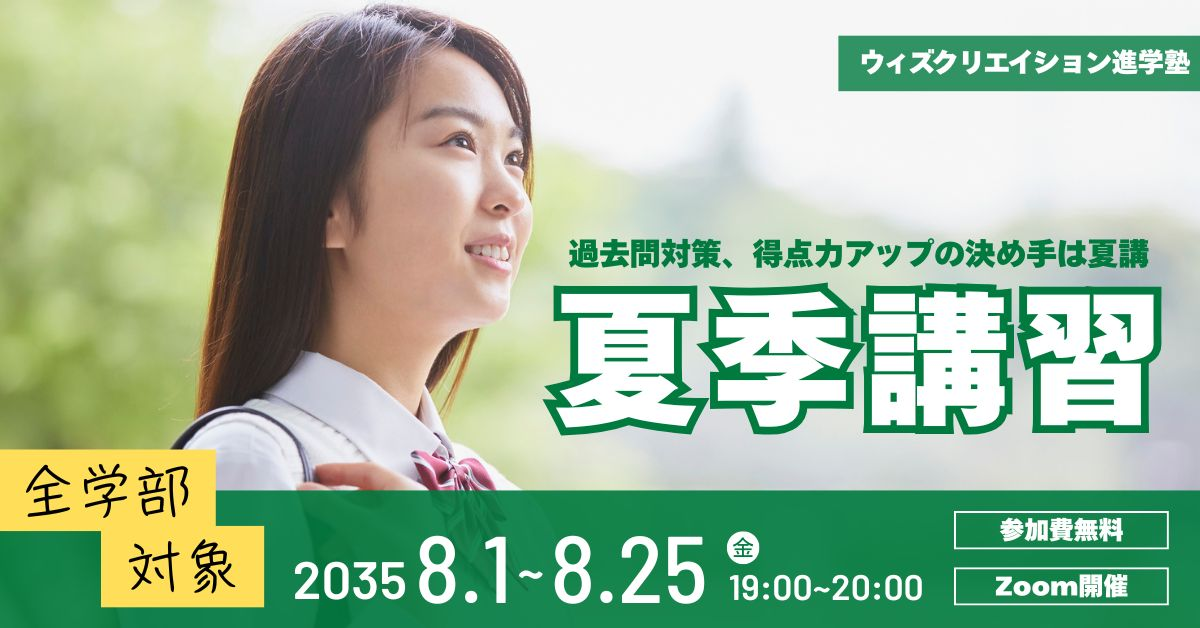
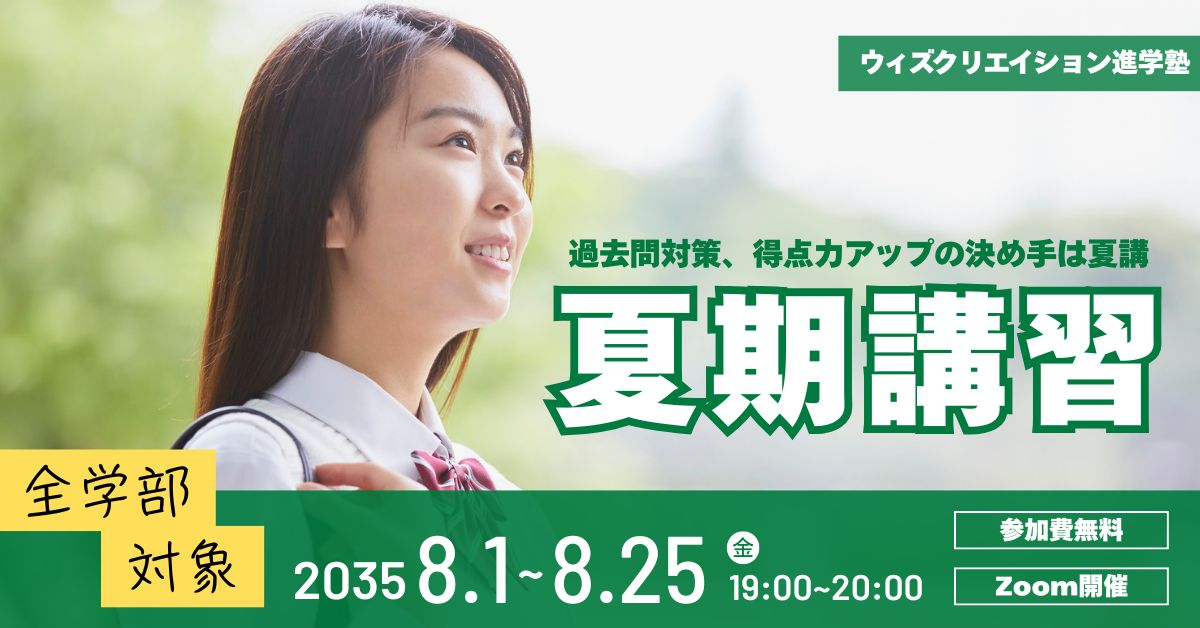
no message

Changed region(s): [[0.5858, 0.4538, 0.74, 0.6959]]

diff --git a/docs/index.html b/docs/index.html
@@ -1,4 +1,4 @@
-<!DOCTYPE html><html lang="ja"><head><meta charSet="utf-8" data-next-head=""/><meta name="viewport" content="width=device-width" data-next-head=""/><title data-next-head="">ポートフォリオ | MAYU NAKAMURA</title><meta name="description" content="MAYU NAKAMURAのポートフォリオサイト" data-next-head=""/><meta property="og:title" content="ポートフォリオ | MAYU NAKAMURA" data-next-head=""/><link rel="preload" href="/portfolio/_next/static/chunks/7ba3b559599ca548.css" as="style"/><link rel="preload" href="/portfolio/_next/static/chunks/ebd6448a097b1509.css" as="style"/><link rel="stylesheet" href="/portfolio/_next/static/chunks/7ba3b559599ca548.css" data-n-g=""/><link rel="stylesheet" href="/portfolio/_next/static/chunks/ebd6448a097b1509.css" data-n-p=""/><noscript data-n-css=""></noscript><script src="/portfolio/_next/static/chunks/9ccd0b20f5c049f9.js" defer=""></script><script src="/portfolio/_next/static/chunks/50bbf46cee1b9c29.js" defer=""></script><script src="/portfolio/_next/static/chunks/turbopack-b5976cc67f508c5a.js" defer=""></script><script src="/portfolio/_next/static/chunks/aba73c37deb33c8e.js" defer=""></script><script src="/portfolio/_next/static/chunks/turbopack-87e1ef3eaf4d58f4.js" defer=""></script><script src="/portfolio/_next/static/ok2PaM1nN5fzwdXvmGa1H/_ssgManifest.js" defer=""></script><script src="/portfolio/_next/static/ok2PaM1nN5fzwdXvmGa1H/_buildManifest.js" defer=""></script></head><body><link rel="preload" as="image" href="/portfolio/image/works/design/03.jpg"/><link rel="preload" as="image" href="/portfolio/image/works/design/04.jpg"/><link rel="preload" as="image" href="/portfolio/image/works/design/05.jpg"/><link rel="preload" as="image" href="/portfolio/image/works/design/06.jpg"/><link rel="preload" as="image" href="/portfolio/image/works/design/02.jpg"/><link rel="preload" as="image" href="/portfolio/image/works/design/01.jpg"/><link rel="preload" as="image" href="/portfolio/image/works/photo/01.jpg"/><link rel="preload" as="image" href="/portfolio/image/works/photo/02.jpg"/><link rel="preload" as="image" href="/portfolio/image/works/photo/03.jpg"/><link rel="preload" as="image" href="/portfolio/image/works/photo/05.jpg"/><div id="__next"><main><section class="text-center py-20"><h1 class="text-4xl md:text-5xl font-bold tracking-tight">MAYU NAKAMURA</h1><p class="mt-2 text-lg text-gray-600">Frontend Developer</p><button class="mt-6 px-6 py-2 bg-white shadow-md rounded-xl border border-gray-200 hover:shadow-lg transition cursor-pointer">View Works</button></section><section class="max-w-6xl mx-auto px-6 py-20"><div class="relative md:flex items-center gap-10 bg-gray-50 rounded-2xl shadow-sm border border-gray-600 max-w-6xl mx-auto px-6 py-20"><div class="flex-1 relative z-10"><h2 class="text-3xl font-extrabold mb-6 text-gray-800 flex items-center gap-2"><span class="inline-block w-2 h-6 bg-gray-400 rounded-full mr-2"></span>About</h2><p class="text-gray-700 leading-relaxed text-base md:text-lg mb-6"><span class="text-gray-500">2017年 美術系大学を卒業し、2年間Webデザインを担当していました。現在はフロントエンド開発を中心に担当しています。<br/>見た目だけでなく、ユーザビリティにこだわった実装を得意とし、Lighthouseを活用したSEO対策や、アクセシビリティに配慮したコーディングを心がけています。<br/>今後はデザイン面からもアプローチするため、UI/UXデザインを深く学び、スキルアップに努めています。</span></p><h3 class="text-2xl font-semibold mt-10">Skills</h3><div class="flex flex-wrap gap-3 mt-4"><span class="px-4 py-1 bg-gray-100 text-gray-700 border border-gray-400 rounded-full text-sm font-semibold shadow">HTML</span><span class="px-4 py-1 bg-gray-100 text-gray-700 border border-gray-400 rounded-full text-sm font-semibold shadow">CSS</span><span class="px-4 py-1 bg-gray-100 text-gray-700 border border-gray-400 rounded-full text-sm font-semibold shadow">JS</span><span class="px-4 py-1 bg-gray-100 text-gray-700 border border-gray-400 rounded-full text-sm font-semibold shadow">TS</span><span class="px-4 py-1 bg-gray-100 text-gray-700 border border-gray-400 rounded-full text-sm font-semibold shadow">React</span><span class="px-4 py-1 bg-gray-100 text-gray-700 border border-gray-400 rounded-full text-sm font-semibold shadow">Next.js</span><span class="px-4 py-1 bg-gray-100 text-gray-700 border border-gray-400 rounded-full text-sm font-semibold shadow">Vue.js</span><span class="px-4 py-1 bg-gray-100 text-gray-700 border border-gray-400 rounded-full text-sm font-semibold shadow">Photoshop</span><span class="px-4 py-1 bg-gray-100 text-gray-700 border border-gray-400 rounded-full text-sm font-semibold shadow">Canva</span><span class="px-4 py-1 bg-gray-100 text-gray-700 border border-gray-400 rounded-full text-sm font-semibold shadow">a11y</span><span class="px-4 py-1 bg-gray-100 text-gray-700 border border-gray-400 rounded-full text-sm font-semibold shadow">Lighthouse</span></div></div><div class="mt-12 md:mt-0 flex justify-center items-center relative z-10"><div class="w-50 h-50 rounded-full overflow-hidden shadow-lg border-4 border-white"><img alt="Profile" loading="lazy" width="200" height="200" decoding="async" data-nimg="1" class="object-cover w-full h-full" style="color:transparent" src="/portfolio/image/profile.jpg"/></div></div></div></section><section id="works" class="max-w-6xl mx-auto px-6 py-20"><h2 class="text-2xl font-semibold mb-8">Works</h2><h3 class="text-1xl font-semibold mb-4">Web</h3><div class="grid md:grid-cols-3 gap-6 mb-16"><div class="bg-gray-50 rounded-2xl p-6 border border-gray-600 shadow-sm transition undefined"><div class="h-32 rounded-xl mb-4"><a href="https://sora03pt.github.io/cosplay-recruitment/"><img alt="Project Image" loading="lazy" width="128" height="128" decoding="async" data-nimg="1" class="object-contain w-full h-full rounded-xl" style="color:transparent" src="/portfolio/image/works/01.jpg"/></a></div><h4 class="font-semibold">文章作成支援ツール</h4><p class="text-sm text-gray-600 mt-1 whitespace-pre-line">使用ツール：Vercel v0
+<!DOCTYPE html><html lang="ja"><head><meta charSet="utf-8" data-next-head=""/><meta name="viewport" content="width=device-width" data-next-head=""/><title data-next-head="">ポートフォリオ | MAYU NAKAMURA</title><meta name="description" content="MAYU NAKAMURAのポートフォリオサイト" data-next-head=""/><meta property="og:title" content="ポートフォリオ | MAYU NAKAMURA" data-next-head=""/><link rel="preload" href="/portfolio/_next/static/chunks/7ba3b559599ca548.css" as="style"/><link rel="preload" href="/portfolio/_next/static/chunks/ebd6448a097b1509.css" as="style"/><link rel="stylesheet" href="/portfolio/_next/static/chunks/7ba3b559599ca548.css" data-n-g=""/><link rel="stylesheet" href="/portfolio/_next/static/chunks/ebd6448a097b1509.css" data-n-p=""/><noscript data-n-css=""></noscript><script src="/portfolio/_next/static/chunks/9ccd0b20f5c049f9.js" defer=""></script><script src="/portfolio/_next/static/chunks/50bbf46cee1b9c29.js" defer=""></script><script src="/portfolio/_next/static/chunks/turbopack-b5976cc67f508c5a.js" defer=""></script><script src="/portfolio/_next/static/chunks/aba73c37deb33c8e.js" defer=""></script><script src="/portfolio/_next/static/chunks/turbopack-87e1ef3eaf4d58f4.js" defer=""></script><script src="/portfolio/_next/static/E28Ox2ZxlaCH8_cyhj0Ik/_ssgManifest.js" defer=""></script><script src="/portfolio/_next/static/E28Ox2ZxlaCH8_cyhj0Ik/_buildManifest.js" defer=""></script></head><body><link rel="preload" as="image" href="/portfolio/image/works/design/03.jpg"/><link rel="preload" as="image" href="/portfolio/image/works/design/04.jpg"/><link rel="preload" as="image" href="/portfolio/image/works/design/05.jpg"/><link rel="preload" as="image" href="/portfolio/image/works/design/06.jpg"/><link rel="preload" as="image" href="/portfolio/image/works/design/02.jpg"/><link rel="preload" as="image" href="/portfolio/image/works/design/01.jpg"/><link rel="preload" as="image" href="/portfolio/image/works/photo/01.jpg"/><link rel="preload" as="image" href="/portfolio/image/works/photo/02.jpg"/><link rel="preload" as="image" href="/portfolio/image/works/photo/03.jpg"/><link rel="preload" as="image" href="/portfolio/image/works/photo/05.jpg"/><div id="__next"><main><section class="text-center py-20"><h1 class="text-4xl md:text-5xl font-bold tracking-tight">MAYU NAKAMURA</h1><p class="mt-2 text-lg text-gray-600">Frontend Developer</p><button class="mt-6 px-6 py-2 bg-white shadow-md rounded-xl border border-gray-200 hover:shadow-lg transition cursor-pointer">View Works</button></section><section class="max-w-6xl mx-auto px-6 py-20"><div class="relative md:flex items-center gap-10 bg-gray-50 rounded-2xl shadow-sm border border-gray-600 max-w-6xl mx-auto px-6 py-20"><div class="flex-1 relative z-10"><h2 class="text-3xl font-extrabold mb-6 text-gray-800 flex items-center gap-2"><span class="inline-block w-2 h-6 bg-gray-400 rounded-full mr-2"></span>About</h2><p class="text-gray-700 leading-relaxed text-base md:text-lg mb-6"><span class="text-gray-500">2017年 美術系大学を卒業し、2年間Webデザインを担当していました。現在はフロントエンド開発を中心に担当しています。<br/>見た目だけでなく、ユーザビリティにこだわった実装を得意とし、Lighthouseを活用したSEO対策や、アクセシビリティに配慮したコーディングを心がけています。<br/>今後はデザイン面からもアプローチするため、UI/UXデザインを深く学び、スキルアップに努めています。</span></p><h3 class="text-2xl font-semibold mt-10">Skills</h3><div class="flex flex-wrap gap-3 mt-4"><span class="px-4 py-1 bg-gray-100 text-gray-700 border border-gray-400 rounded-full text-sm font-semibold shadow">HTML</span><span class="px-4 py-1 bg-gray-100 text-gray-700 border border-gray-400 rounded-full text-sm font-semibold shadow">CSS</span><span class="px-4 py-1 bg-gray-100 text-gray-700 border border-gray-400 rounded-full text-sm font-semibold shadow">JS</span><span class="px-4 py-1 bg-gray-100 text-gray-700 border border-gray-400 rounded-full text-sm font-semibold shadow">TS</span><span class="px-4 py-1 bg-gray-100 text-gray-700 border border-gray-400 rounded-full text-sm font-semibold shadow">React</span><span class="px-4 py-1 bg-gray-100 text-gray-700 border border-gray-400 rounded-full text-sm font-semibold shadow">Next.js</span><span class="px-4 py-1 bg-gray-100 text-gray-700 border border-gray-400 rounded-full text-sm font-semibold shadow">Vue.js</span><span class="px-4 py-1 bg-gray-100 text-gray-700 border border-gray-400 rounded-full text-sm font-semibold shadow">Photoshop</span><span class="px-4 py-1 bg-gray-100 text-gray-700 border border-gray-400 rounded-full text-sm font-semibold shadow">Canva</span><span class="px-4 py-1 bg-gray-100 text-gray-700 border border-gray-400 rounded-full text-sm font-semibold shadow">a11y</span><span class="px-4 py-1 bg-gray-100 text-gray-700 border border-gray-400 rounded-full text-sm font-semibold shadow">Lighthouse</span></div></div><div class="mt-12 md:mt-0 flex justify-center items-center relative z-10"><div class="w-50 h-50 rounded-full overflow-hidden shadow-lg border-4 border-white"><img alt="Profile" loading="lazy" width="200" height="200" decoding="async" data-nimg="1" class="object-cover w-full h-full" style="color:transparent" src="/portfolio/image/profile.jpg"/></div></div></div></section><section id="works" class="max-w-6xl mx-auto px-6 py-20"><h2 class="text-2xl font-semibold mb-8">Works</h2><h3 class="text-1xl font-semibold mb-4">Web</h3><div class="grid md:grid-cols-3 gap-6 mb-16"><div class="bg-gray-50 rounded-2xl p-6 border border-gray-600 shadow-sm transition undefined"><div class="h-32 rounded-xl mb-4"><a href="https://sora03pt.github.io/cosplay-recruitment/"><img alt="Project Image" loading="lazy" width="128" height="128" decoding="async" data-nimg="1" class="object-contain w-full h-full rounded-xl" style="color:transparent" src="/portfolio/image/works/01.jpg"/></a></div><h4 class="font-semibold">文章作成支援ツール</h4><p class="text-sm text-gray-600 mt-1 whitespace-pre-line">使用ツール：Vercel v0
 言語：TypeScript、HTML、CSS
 時間：2h</p><div class="flex gap-2 mt-4"><a href="https://github.com/sora03pt/cosplay-recruitment" target="_blank" rel="noopener noreferrer" class="px-3 py-1 text-sm bg-gray-100 rounded-lg hover:bg-gray-200 transition">GitHub</a><a href="https://sora03pt.github.io/cosplay-recruitment/" target="_blank" rel="noopener noreferrer" class="px-3 py-1 text-sm bg-gray-100 rounded-lg hover:bg-gray-200 transition">Demo</a></div></div></div><h3 class="text-1xl font-semibold mb-4">design</h3><div class="grid md:grid-cols-3 gap-6 mb-16"><button type="button" class="bg-gray-50 rounded-2xl p-6 border border-gray-600 shadow-sm transition cursor-pointer undefined"><img src="/portfolio/image/works/design/03.jpg" alt="" height="360" class="Works-module-scss-module__xTUGiW__item"/><h4 class="font-semibold mt-3 text-left">夏期講習バナー</h4><p class="text-sm text-gray-600 mt-1 whitespace-pre-line text-left">使用ツール：canva
 時間：2h</p></button><button type="button" class="bg-gray-50 rounded-2xl p-6 border border-gray-600 shadow-sm transition cursor-pointer undefined"><img src="/portfolio/image/works/design/04.jpg" alt="" height="360" class="Works-module-scss-module__xTUGiW__item"/><h4 class="font-semibold mt-3 text-left">コーヒーサブスクリプションバナー</h4><p class="text-sm text-gray-600 mt-1 whitespace-pre-line text-left">使用ツール：canva
@@ -6,4 +6,4 @@
 時間：2h</p></button><button type="button" class="bg-gray-50 rounded-2xl p-6 border border-gray-600 shadow-sm transition cursor-pointer undefined"><img src="/portfolio/image/works/design/06.jpg" alt="" height="360" class="Works-module-scss-module__xTUGiW__item"/><h4 class="font-semibold mt-3 text-left">運送会社求人バナー</h4><p class="text-sm text-gray-600 mt-1 whitespace-pre-line text-left">使用ツール：canva
 時間：2h</p></button><button type="button" class="bg-gray-50 rounded-2xl p-6 border border-gray-600 shadow-sm transition cursor-pointer undefined"><img src="/portfolio/image/works/design/02.jpg" alt="" height="360" class="Works-module-scss-module__xTUGiW__item"/><h4 class="font-semibold mt-3 text-left">英会話スクールバナー</h4><p class="text-sm text-gray-600 mt-1 whitespace-pre-line text-left">使用ツール：canva
 時間：2h</p></button><button type="button" class="bg-gray-50 rounded-2xl p-6 border border-gray-600 shadow-sm transition cursor-pointer undefined"><img src="/portfolio/image/works/design/01.jpg" alt="" height="360" class="Works-module-scss-module__xTUGiW__item"/><h4 class="font-semibold mt-3 text-left">名刺</h4><p class="text-sm text-gray-600 mt-1 whitespace-pre-line text-left">使用ツール：Adobe Illustrator
-時間：3h</p></button></div><h3 class="text-1xl font-semibold mb-4">Photo</h3><div class="bg-gray-50 rounded-2xl p-6 border border-gray-600 shadow-sm Works-module-scss-module__xTUGiW__images"><button type="button" class="Works-module-scss-module__xTUGiW__button" aria-label="Open image modal"><img src="/portfolio/image/works/photo/01.jpg" alt="" height="360" class="Works-module-scss-module__xTUGiW__item"/></button><button type="button" class="Works-module-scss-module__xTUGiW__button" aria-label="Open image modal"><img src="/portfolio/image/works/photo/02.jpg" alt="" height="360" class="Works-module-scss-module__xTUGiW__item"/></button><button type="button" class="Works-module-scss-module__xTUGiW__button" aria-label="Open image modal"><img src="/portfolio/image/works/photo/03.jpg" alt="" height="360" class="Works-module-scss-module__xTUGiW__item"/></button><button type="button" class="Works-module-scss-module__xTUGiW__button" aria-label="Open image modal"><img src="/portfolio/image/works/photo/05.jpg" alt="" height="360" class="Works-module-scss-module__xTUGiW__item"/></button></div></section><section class="max-w-4xl mx-auto px-6 py-20 text-center"><h2 class="text-2xl font-semibold mb-6">Contact</h2><div class="flex justify-center gap-16 text-gray-700"><a href="https://github.com/sora03pt" target="_blank" class="flex flex-col items-center cursor-pointer"><span class="text-3xl"><img alt="" loading="lazy" width="24" height="24" decoding="async" data-nimg="1" style="color:transparent" src="/portfolio/image/icon/github.svg"/></span><p class="mt-2 text-sm">GitHub</p></a><button class="flex flex-col items-center cursor-pointer"><span class="text-3xl"><img alt="" loading="lazy" width="24" height="24" decoding="async" data-nimg="1" style="color:transparent" src="/portfolio/image/icon/mail.svg"/></span><p class="mt-2 text-sm">Email</p></button></div></section></main></div><script id="__NEXT_DATA__" type="application/json">{"props":{"pageProps":{}},"page":"/","query":{},"buildId":"ok2PaM1nN5fzwdXvmGa1H","assetPrefix":"/portfolio","nextExport":true,"autoExport":true,"isFallback":false,"scriptLoader":[]}</script></body></html>
+時間：3h</p></button></div><h3 class="text-1xl font-semibold mb-4">Photo</h3><div class="bg-gray-50 rounded-2xl p-6 border border-gray-600 shadow-sm Works-module-scss-module__xTUGiW__images"><button type="button" class="Works-module-scss-module__xTUGiW__button" aria-label="Open image modal"><img src="/portfolio/image/works/photo/01.jpg" alt="" height="360" class="Works-module-scss-module__xTUGiW__item"/></button><button type="button" class="Works-module-scss-module__xTUGiW__button" aria-label="Open image modal"><img src="/portfolio/image/works/photo/02.jpg" alt="" height="360" class="Works-module-scss-module__xTUGiW__item"/></button><button type="button" class="Works-module-scss-module__xTUGiW__button" aria-label="Open image modal"><img src="/portfolio/image/works/photo/03.jpg" alt="" height="360" class="Works-module-scss-module__xTUGiW__item"/></button><button type="button" class="Works-module-scss-module__xTUGiW__button" aria-label="Open image modal"><img src="/portfolio/image/works/photo/05.jpg" alt="" height="360" class="Works-module-scss-module__xTUGiW__item"/></button></div></section><section class="max-w-4xl mx-auto px-6 py-20 text-center"><h2 class="text-2xl font-semibold mb-6">Contact</h2><div class="flex justify-center gap-16 text-gray-700"><a href="https://github.com/sora03pt" target="_blank" class="flex flex-col items-center cursor-pointer"><span class="text-3xl"><img alt="" loading="lazy" width="24" height="24" decoding="async" data-nimg="1" style="color:transparent" src="/portfolio/image/icon/github.svg"/></span><p class="mt-2 text-sm">GitHub</p></a><button class="flex flex-col items-center cursor-pointer"><span class="text-3xl"><img alt="" loading="lazy" width="24" height="24" decoding="async" data-nimg="1" style="color:transparent" src="/portfolio/image/icon/mail.svg"/></span><p class="mt-2 text-sm">Email</p></button></div></section></main></div><script id="__NEXT_DATA__" type="application/json">{"props":{"pageProps":{}},"page":"/","query":{},"buildId":"E28Ox2ZxlaCH8_cyhj0Ik","assetPrefix":"/portfolio","nextExport":true,"autoExport":true,"isFallback":false,"scriptLoader":[]}</script></body></html>

diff --git a/docs/404.html b/docs/404.html
@@ -1,1 +1,1 @@
-<!DOCTYPE html><html lang="ja"><head><meta charSet="utf-8" data-next-head=""/><meta name="viewport" content="width=device-width" data-next-head=""/><title data-next-head="">404: This page could not be found</title><link rel="preload" href="/portfolio/_next/static/chunks/7ba3b559599ca548.css" as="style"/><link rel="stylesheet" href="/portfolio/_next/static/chunks/7ba3b559599ca548.css" data-n-g=""/><noscript data-n-css=""></noscript><script src="/portfolio/_next/static/chunks/9ccd0b20f5c049f9.js" defer=""></script><script src="/portfolio/_next/static/chunks/50bbf46cee1b9c29.js" defer=""></script><script src="/portfolio/_next/static/chunks/turbopack-b5976cc67f508c5a.js" defer=""></script><script src="/portfolio/_next/static/chunks/fec5823291c94741.js" defer=""></script><script src="/portfolio/_next/static/chunks/turbopack-d383a23dc7ff182f.js" defer=""></script><script src="/portfolio/_next/static/ok2PaM1nN5fzwdXvmGa1H/_ssgManifest.js" defer=""></script><script src="/portfolio/_next/static/ok2PaM1nN5fzwdXvmGa1H/_buildManifest.js" defer=""></script></head><body><div id="__next"><div style="font-family:system-ui,&quot;Segoe UI&quot;,Roboto,Helvetica,Arial,sans-serif,&quot;Apple Color Emoji&quot;,&quot;Segoe UI Emoji&quot;;height:100vh;text-align:center;display:flex;flex-direction:column;align-items:center;justify-content:center"><div style="line-height:48px"><style>body{color:#000;background:#fff;margin:0}.next-error-h1{border-right:1px solid rgba(0,0,0,.3)}@media (prefers-color-scheme:dark){body{color:#fff;background:#000}.next-error-h1{border-right:1px solid rgba(255,255,255,.3)}}</style><h1 class="next-error-h1" style="display:inline-block;margin:0 20px 0 0;padding-right:23px;font-size:24px;font-weight:500;vertical-align:top">404</h1><div style="display:inline-block"><h2 style="font-size:14px;font-weight:400;line-height:28px">This page could not be found<!-- -->.</h2></div></div></div></div><script id="__NEXT_DATA__" type="application/json">{"props":{"pageProps":{"statusCode":404}},"page":"/_error","query":{},"buildId":"ok2PaM1nN5fzwdXvmGa1H","assetPrefix":"/portfolio","nextExport":true,"isFallback":false,"gip":true,"scriptLoader":[]}</script></body></html>
+<!DOCTYPE html><html lang="ja"><head><meta charSet="utf-8" data-next-head=""/><meta name="viewport" content="width=device-width" data-next-head=""/><title data-next-head="">404: This page could not be found</title><link rel="preload" href="/portfolio/_next/static/chunks/7ba3b559599ca548.css" as="style"/><link rel="stylesheet" href="/portfolio/_next/static/chunks/7ba3b559599ca548.css" data-n-g=""/><noscript data-n-css=""></noscript><script src="/portfolio/_next/static/chunks/9ccd0b20f5c049f9.js" defer=""></script><script src="/portfolio/_next/static/chunks/50bbf46cee1b9c29.js" defer=""></script><script src="/portfolio/_next/static/chunks/turbopack-b5976cc67f508c5a.js" defer=""></script><script src="/portfolio/_next/static/chunks/fec5823291c94741.js" defer=""></script><script src="/portfolio/_next/static/chunks/turbopack-d383a23dc7ff182f.js" defer=""></script><script src="/portfolio/_next/static/E28Ox2ZxlaCH8_cyhj0Ik/_ssgManifest.js" defer=""></script><script src="/portfolio/_next/static/E28Ox2ZxlaCH8_cyhj0Ik/_buildManifest.js" defer=""></script></head><body><div id="__next"><div style="font-family:system-ui,&quot;Segoe UI&quot;,Roboto,Helvetica,Arial,sans-serif,&quot;Apple Color Emoji&quot;,&quot;Segoe UI Emoji&quot;;height:100vh;text-align:center;display:flex;flex-direction:column;align-items:center;justify-content:center"><div style="line-height:48px"><style>body{color:#000;background:#fff;margin:0}.next-error-h1{border-right:1px solid rgba(0,0,0,.3)}@media (prefers-color-scheme:dark){body{color:#fff;background:#000}.next-error-h1{border-right:1px solid rgba(255,255,255,.3)}}</style><h1 class="next-error-h1" style="display:inline-block;margin:0 20px 0 0;padding-right:23px;font-size:24px;font-weight:500;vertical-align:top">404</h1><div style="display:inline-block"><h2 style="font-size:14px;font-weight:400;line-height:28px">This page could not be found<!-- -->.</h2></div></div></div></div><script id="__NEXT_DATA__" type="application/json">{"props":{"pageProps":{"statusCode":404}},"page":"/_error","query":{},"buildId":"E28Ox2ZxlaCH8_cyhj0Ik","assetPrefix":"/portfolio","nextExport":true,"isFallback":false,"gip":true,"scriptLoader":[]}</script></body></html>

diff --git a/docs/404/index.html b/docs/404/index.html
@@ -1,1 +1,1 @@
-<!DOCTYPE html><html lang="ja"><head><meta charSet="utf-8" data-next-head=""/><meta name="viewport" content="width=device-width" data-next-head=""/><title data-next-head="">404: This page could not be found</title><link rel="preload" href="/portfolio/_next/static/chunks/7ba3b559599ca548.css" as="style"/><link rel="stylesheet" href="/portfolio/_next/static/chunks/7ba3b559599ca548.css" data-n-g=""/><noscript data-n-css=""></noscript><script src="/portfolio/_next/static/chunks/9ccd0b20f5c049f9.js" defer=""></script><script src="/portfolio/_next/static/chunks/50bbf46cee1b9c29.js" defer=""></script><script src="/portfolio/_next/static/chunks/turbopack-b5976cc67f508c5a.js" defer=""></script><script src="/portfolio/_next/static/chunks/fec5823291c94741.js" defer=""></script><script src="/portfolio/_next/static/chunks/turbopack-d383a23dc7ff182f.js" defer=""></script><script src="/portfolio/_next/static/ok2PaM1nN5fzwdXvmGa1H/_ssgManifest.js" defer=""></script><script src="/portfolio/_next/static/ok2PaM1nN5fzwdXvmGa1H/_buildManifest.js" defer=""></script></head><body><div id="__next"><div style="font-family:system-ui,&quot;Segoe UI&quot;,Roboto,Helvetica,Arial,sans-serif,&quot;Apple Color Emoji&quot;,&quot;Segoe UI Emoji&quot;;height:100vh;text-align:center;display:flex;flex-direction:column;align-items:center;justify-content:center"><div style="line-height:48px"><style>body{color:#000;background:#fff;margin:0}.next-error-h1{border-right:1px solid rgba(0,0,0,.3)}@media (prefers-color-scheme:dark){body{color:#fff;background:#000}.next-error-h1{border-right:1px solid rgba(255,255,255,.3)}}</style><h1 class="next-error-h1" style="display:inline-block;margin:0 20px 0 0;padding-right:23px;font-size:24px;font-weight:500;vertical-align:top">404</h1><div style="display:inline-block"><h2 style="font-size:14px;font-weight:400;line-height:28px">This page could not be found<!-- -->.</h2></div></div></div></div><script id="__NEXT_DATA__" type="application/json">{"props":{"pageProps":{"statusCode":404}},"page":"/_error","query":{},"buildId":"ok2PaM1nN5fzwdXvmGa1H","assetPrefix":"/portfolio","nextExport":true,"isFallback":false,"gip":true,"scriptLoader":[]}</script></body></html>
+<!DOCTYPE html><html lang="ja"><head><meta charSet="utf-8" data-next-head=""/><meta name="viewport" content="width=device-width" data-next-head=""/><title data-next-head="">404: This page could not be found</title><link rel="preload" href="/portfolio/_next/static/chunks/7ba3b559599ca548.css" as="style"/><link rel="stylesheet" href="/portfolio/_next/static/chunks/7ba3b559599ca548.css" data-n-g=""/><noscript data-n-css=""></noscript><script src="/portfolio/_next/static/chunks/9ccd0b20f5c049f9.js" defer=""></script><script src="/portfolio/_next/static/chunks/50bbf46cee1b9c29.js" defer=""></script><script src="/portfolio/_next/static/chunks/turbopack-b5976cc67f508c5a.js" defer=""></script><script src="/portfolio/_next/static/chunks/fec5823291c94741.js" defer=""></script><script src="/portfolio/_next/static/chunks/turbopack-d383a23dc7ff182f.js" defer=""></script><script src="/portfolio/_next/static/E28Ox2ZxlaCH8_cyhj0Ik/_ssgManifest.js" defer=""></script><script src="/portfolio/_next/static/E28Ox2ZxlaCH8_cyhj0Ik/_buildManifest.js" defer=""></script></head><body><div id="__next"><div style="font-family:system-ui,&quot;Segoe UI&quot;,Roboto,Helvetica,Arial,sans-serif,&quot;Apple Color Emoji&quot;,&quot;Segoe UI Emoji&quot;;height:100vh;text-align:center;display:flex;flex-direction:column;align-items:center;justify-content:center"><div style="line-height:48px"><style>body{color:#000;background:#fff;margin:0}.next-error-h1{border-right:1px solid rgba(0,0,0,.3)}@media (prefers-color-scheme:dark){body{color:#fff;background:#000}.next-error-h1{border-right:1px solid rgba(255,255,255,.3)}}</style><h1 class="next-error-h1" style="display:inline-block;margin:0 20px 0 0;padding-right:23px;font-size:24px;font-weight:500;vertical-align:top">404</h1><div style="display:inline-block"><h2 style="font-size:14px;font-weight:400;line-height:28px">This page could not be found<!-- -->.</h2></div></div></div></div><script id="__NEXT_DATA__" type="application/json">{"props":{"pageProps":{"statusCode":404}},"page":"/_error","query":{},"buildId":"E28Ox2ZxlaCH8_cyhj0Ik","assetPrefix":"/portfolio","nextExport":true,"isFallback":false,"gip":true,"scriptLoader":[]}</script></body></html>
